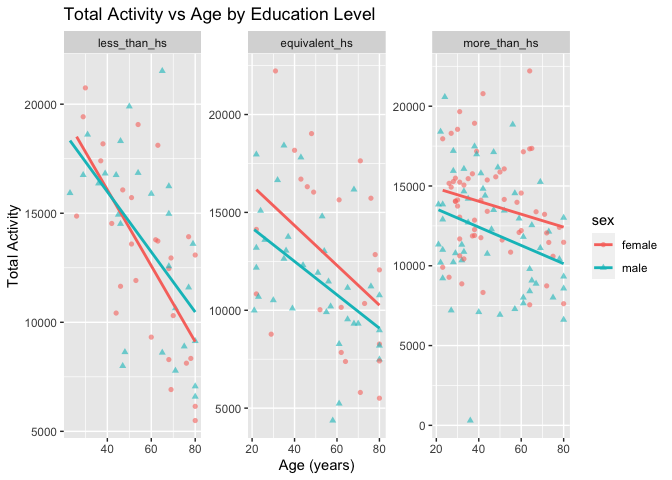
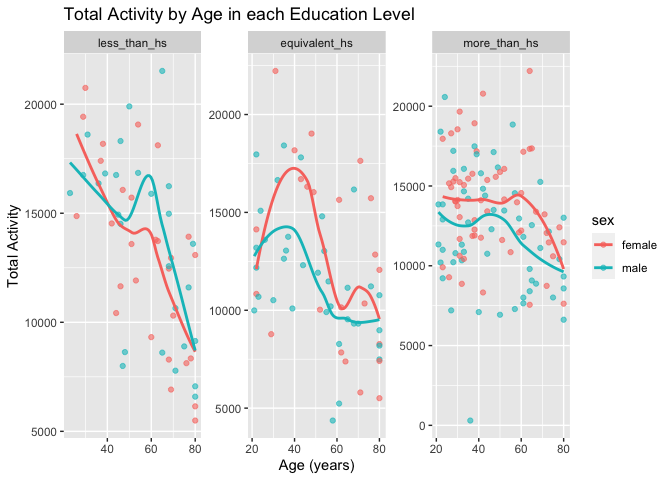
Finalized everything except the very last problem

diff --git a/p8105_hw3_dfk2117.md b/p8105_hw3_dfk2117.md
@@ -38,6 +38,15 @@ instacart =
   as_tibble()
 ```
 
+This chunk takes the `instacart` data from the `p8105.datasets` and
+saves it as a tibble that I can manipulate later. This dataframe
+contains nearly 1.4 million observations of 15 variables. These
+variables include but are not limited to order id’s for each order, the
+id of the product ordered, whether or not the item was reordered, the
+time of the order (split in day of week, and hour).
+
+### How many aisles are there, and which aisles are the most items ordered from?
+
 ``` r
 df_aisles = 
   instacart |> 
@@ -65,7 +74,14 @@ df_aisles
 
 Using the `group_by()` function and the `summarise()` function, we see
 that there are 134 different aisles. Further, using `arrange()`, we can
-see that 83, 24,123,120,21 are the 5 most ordered-from aisles.
+see that 83, 24,123,120,21 are the 5 most ordered-from aisles. These
+correspond to the fresh vegetables, fresh fruits, packaged vegetable
+fruits, yogurt and packaged cheese aisles. I feel like the fresh fruits
+and fresh vegetable aisles have a disproportionately large number of
+items because produce is usually sold individually, so maybe each
+individual fruit/vegetable is being counted as an item.
+
+### Number of items ordered in each aisle
 
 ``` r
 instacart |> 
@@ -74,7 +90,7 @@ instacart |>
   mutate(aisle = fct_reorder(aisle, n)) |> 
   ggplot(aes(x = aisle, y = n, color = aisle)) + 
   geom_point() + 
-  labs(title = "Number of items purchased per aisle",
+  labs(title = "Number of Items Purchased per Aisle",
        x = "Response",
        y = "Data Value") + 
   theme(axis.text.x = element_text(size = 5)) +
@@ -90,10 +106,20 @@ instacart |>
 
 ![](p8105_hw3_dfk2117_files/figure-gfm/unnamed-chunk-4-1.png)<!-- -->
 
+The above code first uses `count()` to count the number of items ordered
+from each aisle, then `filter()` restricts this value to only those
+greater than 10,000 items. The `fct_reorder()` function is then used
+inside of `mutate()` to reordee the `aisle` variable accordig to the new
+`n` variable. The remaining code creates a ggplot using `geom_point()`
+with `x = aisle` and `y = n`. The remaining code is aesthetics to make
+the plot more human-readable.
+
+### Three most popular items in each of the aisles “baking ingredients”, “dog food care”, and “packaged vegetables fruits”
+
 ``` r
-# I did this one very wrong the first go around, I pretty much got just to the mutate step, I corrected it based on the lecture notes
+# I did this one very wrong the first go around, I pretty much got just to the mutate step, I corrected it based on the homework notes
 instacart |> 
-  filter(aisle %in% c("baking ingredients", "dog food care", "packaged vegetables fruits")) |>
+  filter(aisle %in% c("baking ingredients", "dog food care", "packaged vegetables     fruits")) |>
   group_by(aisle) |> 
   count(product_name) |> 
   mutate(rank = min_rank(desc(n))) |> 
@@ -102,17 +128,26 @@ instacart |>
   knitr::kable()
 ```
 
-| aisle                      | product_name                                  |    n | rank |
-|:---------------------------|:----------------------------------------------|-----:|-----:|
-| packaged vegetables fruits | Organic Baby Spinach                          | 9784 |    1 |
-| packaged vegetables fruits | Organic Raspberries                           | 5546 |    2 |
-| packaged vegetables fruits | Organic Blueberries                           | 4966 |    3 |
-| baking ingredients         | Light Brown Sugar                             |  499 |    1 |
-| baking ingredients         | Pure Baking Soda                              |  387 |    2 |
-| baking ingredients         | Cane Sugar                                    |  336 |    3 |
-| dog food care              | Snack Sticks Chicken & Rice Recipe Dog Treats |   30 |    1 |
-| dog food care              | Organix Chicken & Brown Rice Recipe           |   28 |    2 |
-| dog food care              | Small Dog Biscuits                            |   26 |    3 |
+| aisle              | product_name                                  |   n | rank |
+|:-------------------|:----------------------------------------------|----:|-----:|
+| baking ingredients | Light Brown Sugar                             | 499 |    1 |
+| baking ingredients | Pure Baking Soda                              | 387 |    2 |
+| baking ingredients | Cane Sugar                                    | 336 |    3 |
+| dog food care      | Snack Sticks Chicken & Rice Recipe Dog Treats |  30 |    1 |
+| dog food care      | Organix Chicken & Brown Rice Recipe           |  28 |    2 |
+| dog food care      | Small Dog Biscuits                            |  26 |    3 |
+
+This code first filters out the three aisles of interest, then uses
+`group_by()` to ensure that the `count(product_name)` function counts
+products within each aisle. Next, a new `rank` variable is made with
+`mutate()` to rank, in descending order, the most popular items for
+aisle. Then the top 3 ranks are filtered and arranged in descending
+order. The result is a table that is not reader friendly, so
+`knitr::kable()` is used to make it readable. Light Brown Sugar is the
+most popular item in the baking aisle, Snack Sticks Chicken & Rice
+Recipe Dog Treats is the most popular in the dog food care aisle and
+
+### Mean hour of the day at which Pink Lady Apples and Coffee Ice Cream are ordered on each day of the week
 
 ``` r
 instacart |>
@@ -132,6 +167,17 @@ instacart |>
 |:-----------------|------:|------:|------:|------:|------:|------:|------:|
 | Coffee Ice Cream | 13.77 | 14.32 | 15.38 | 15.32 | 15.22 | 12.26 | 13.83 |
 | Pink Lady Apples | 13.44 | 11.36 | 11.70 | 14.25 | 11.55 | 12.78 | 11.94 |
+
+`filter()` is used to only show the `Pink Lady Apple` and
+`Coffee Ice Cream` product names. Then we `group_by()` the product name,
+and the order day of the week. Then `summarize()` calculates the
+`mean(order_hour_of_day)` based on the grouped parameters. Next
+`pivot_wider()` takes the table we have and effectively flips it on its
+side so we have the `order_dow` as the top row of the table.
+`knitr::kable()` is then used with `digits = 2` to make a reader
+friendly table rounded to 2 digits. It looks like both coffee ice cream
+and pink lady apples are order the latest in the day on average on
+tuesday and wednesday respectively.
 
 ## Problem 2
 
@@ -155,7 +201,11 @@ but I also had to use the `rename()` function on `locationabbr` and
 read. I used the `filter()` function two times, once to filter only the
 `Overall Health` topic and the other to filter the specified
 `responses`. Finally, I made response into a factor variable with levels
-Excellent - Poor in descending order using `mutate()`.
+Excellent - Poor in descending order using `mutate()`. The resulting
+dataset has 10,625 observations of 23 variables. These include, but are
+not limited to data_value, location variables (including the state
+abbreviation and state county) a response variable ranging from poor to
+excellent and the sample_size.
 
 ### In 2002, which states were observed at 7 or more locations? What about in 2010?
 
@@ -234,7 +284,6 @@ df_brfss |>
   filter(response == 'Excellent') |> 
   group_by(year, state_abbr) |> 
   summarise(avg_dv_pct = mean(data_value)) |> 
-  ungroup() |> 
   ggplot(aes(x = year, y = avg_dv_pct, group = state_abbr, color = state_abbr)) +
   geom_line() +
   labs(title = "Average Data Value of Excellent Responses Over Years by State",
@@ -256,6 +305,18 @@ df_brfss |>
 
 ![](p8105_hw3_dfk2117_files/figure-gfm/unnamed-chunk-9-1.png)<!-- -->
 
+The above code takes the tidied dataset I made in the data manipulation
+step, Uses `filter()` to focus on only excellent responses, uses
+`group_by()` to group the year and abbreviated state name variables. I
+then use `summarise()` to calculate the average data value in these
+groups. Next, I make a `geom_line()` plot with year along the x-axis and
+the average data percent on the y - axis. I group by and color by the
+abbreviated state name so that each state gets its own individual
+colored line. I also made some tweaks to the legend using arguments I
+found on stackoverflow because it was too intrusive and was taking away
+from the main plot. This plot is hard to read as there are so many
+states and the colors begin to blend.
+
 ### Make a two-panel plot showing, for the years 2006, and 2010, distribution of data_value for responses (“Poor” to “Excellent”) among locations in NY State.
 
 ``` r
@@ -263,10 +324,9 @@ df_brfss |>
   filter(year %in% c(2006, 2010), 
          state_abbr == "NY", 
          response %in% c("Poor", "Fair", "Good", "Very good", "Excellent")) |> 
-  group_by(year, geo_location, response) |> 
   ggplot(aes(x = response, y = data_value, group = geo_location, color = geo_location)) +
   geom_line() +
-  facet_grid(~year) +
+  facet_wrap(~year) +
   labs(title = "Data Value for Poor-Excellent Responses in NY State",
        x = "Response",
        y = "Data Value") +
@@ -281,6 +341,19 @@ df_brfss |>
 ```
 
 ![](p8105_hw3_dfk2117_files/figure-gfm/unnamed-chunk-10-1.png)<!-- -->
+
+To accomplish this, I first use `filter()` with three arguments: the
+years 2006 and 2010, the state New York, and responses from `poor` to
+`excellent`. I then use `geom_line()` with response on the x-axis and
+the data value on the y-axis. This creates one plot with the desired
+information (namely data value vs. response with lines for each
+location), but it combines the two years. To remedy this,
+`facet_wrap(~year)` is used which creates an individual plot for each
+year. The remaining code focuses on the aesthetics as I attempt to make
+the plot more reader friendly by changing the size, shape and angle of
+text. It looks like there is an incrase in `very good` responses in 2010
+when compared to 2006. Both years have comparable amounts of poor, fair,
+good and excellent responses, though.
 
 ## Problem 3
 
@@ -336,13 +409,31 @@ df_merged =
 
     ## Joining with `by = join_by(seqn)`
 
+My first step in tidying the data is to `read_csv()` with the `skip = 4`
+argument since the first 4 rows of the data explain what the numerical
+levels correspond to. I then clean names. Next, I use `mutate()` three
+times. The first time I convert the sex variable to male and female
+based on the numerical levels. I do the same for the education variable
+changing the three numerical levels to accurate descriptions of the
+education level. I finally mutate the education variable using
+`factor()` to order the levels from lowest to highest education level.
+Finally I `filter()` by age greater than or equal to 21 and drop the
+requested demographic NAs. I do a simpler process for the accelerometer
+dataset as it does not require much tidying. I considered
+`pivot_longer()` here to collapse the `min1:min1440` variables into one
+variable with names to `time_interval` and values to `accel_value`, but
+this created a very unweildy dataset that lagged when I manipulated it.
+I instead just merged the datasets as they were using `inner_join`. The
+resuling data set has 228 observations of 1445 variables. This is
+deceiving, though, as only six of these are unique: seqn, sex, age, bmi,
+education and min1-min1440 (which are effectively one variable).
+
 ### Produce a reader-friendly table for the number of men and women in each education category, and create a visualization of the age distributions for men and women in each education category. Comment on these items.
 
 ``` r
  df_merged |> 
   group_by(sex, education) |> 
   summarise(count = n()) |> 
-  arrange(sex, education) |> 
   knitr::kable()
 ```
 
@@ -358,25 +449,37 @@ df_merged =
 | male   | equivalent_hs |    35 |
 | male   | more_than_hs  |    56 |
 
+This creates a table with the counts of each education level within each
+sex. Then `knitr::kable()` makes the table more readable.
+
 ``` r
 df_merged |> 
   ggplot(aes(x = education, fill = sex)) +
-  facet_grid(~sex) +
   geom_bar() +
-    labs(title = "Education Level by Sex",
+    labs(
+      title = "Education Level by Sex",
        x = "Education Level",
        y = "# of Individuals") +
-  theme(axis.text.x = element_text(size = 5)) +
-  theme(axis.text.x = element_text(angle = 20, hjust = 1)) +
-  scale_x_discrete(labels = c(equivalent_hs = "High School Equivalent", "less_than_hs" = "Less than High School", "more_than_hs" = "More than High School"))
+  facet_wrap(~sex) +
+  scale_x_discrete(labels = c(equivalent_hs = "High School Equivalent", "less_than_hs" = "Less than High School", "more_than_hs" = "More than High School")) +
+  theme(axis.text.x = element_text(size = 7)) +
+  theme(axis.text.x = element_text(angle = 20, hjust = 1))
 ```
 
 ![](p8105_hw3_dfk2117_files/figure-gfm/unnamed-chunk-13-1.png)<!-- -->
 
+This makes a `geom_bar()` plot with x as education and colored by sex.
+This plot would normally be a stacked bar plot, but using `facet_wrap()`
+by `~sex` it turns into a side by side bar plot with one graph for each
+sex. Next, I change the labels to make them more descriptive and change
+the sizes and angle of the text to make them reader friendly. Comparable
+amounts of individuals have more than high school for both sexes, but it
+looks like more males have a high school equivalent than females and
+more females have less than high school than males.
+
 ### Traditional analyses of accelerometer data focus on the total activity over the day. Using your tidied dataset, aggregate across minutes to create a total activity variable for each participant. Plot these total activities (y-axis) against age (x-axis); your plot should compare men to women and have separate panels for each education level. Include a trend line or a smooth to illustrate differences. Comment on your plot.
 
 ``` r
-## I found the basis for the code used in the mutate() function on stack overflow since I could not find a way to do this from my notes
 df_merged |> 
   group_by(seqn) |> 
   mutate(total_activity = 
@@ -384,14 +487,28 @@ df_merged |>
              across(
                starts_with("min")))) |>
   ggplot(aes(x = age, y = total_activity, color = sex)) + 
-  geom_point(aes(shape=sex), alpha=0.6) + 
-  geom_smooth(se=FALSE, method="lm") +
-  facet_wrap(~education, scales="free") +
-  labs(title="Total Activity vs Age by Education Level", x="Age (years)", y="Total Activity") 
+  geom_point(alpha=0.6) + 
+  geom_smooth(method = "loess", se = FALSE) +
+  facet_wrap(~education, scales = "free") +
+  labs(title = "Total Activity by Age in each Education Level", x = "Age (years)", y = "Total Activity") 
 ```
 
     ## `geom_smooth()` using formula = 'y ~ x'
 
 ![](p8105_hw3_dfk2117_files/figure-gfm/unnamed-chunk-14-1.png)<!-- -->
+
+I had some trouble getting this one to work properly, but ultimately my
+main issue was that I didn’t `group_by(seqn)` initially. I mutate a new
+total_activity variable as a sum across the row of all variables
+starting with `min`. The resulting variable has the sum of each of the
+1440 activity values corresponding to each minute for each individual
+`seqn`. Next I make a ggplot with `geom_point()` set to an alpha of 0.6
+and `geom_smooth()` with method `loess` as I feel that it was more
+descriptive than `lm`. I then `facet_wrap()` by education and change the
+axis title. It looks like males of age 40+ have higher activity than
+females in the less than high school education level, but females have
+higher activity than makes everywhere else. Activity decreases with age
+in all categories, but in the more than high school category this
+decrease is much less pronounced.
 
 ### Accelerometer data allows the inspection activity over the course of the day. Make a three-panel plot that shows the 24-hour activity time courses for each education level and use color to indicate sex. Describe in words any patterns or conclusions you can make based on this graph; including smooth trends may help identify differences.
